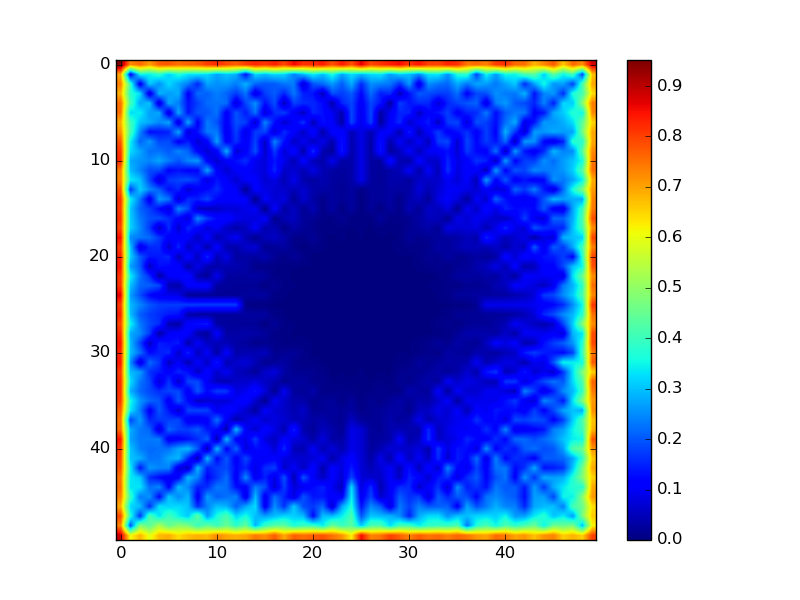
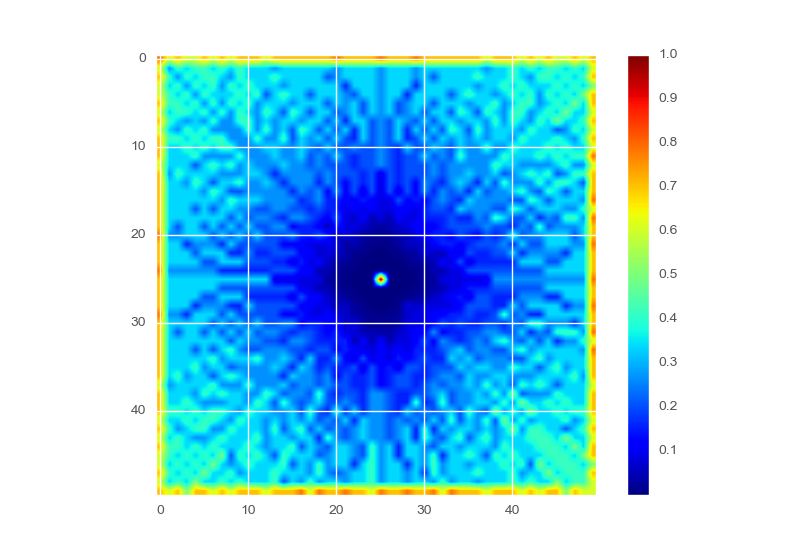
Imrpovements

diff --git a/Mapping/Simulate.py b/Mapping/Simulate.py
@@ -39,20 +39,16 @@ parser.add_argument("-d","--dimensions",
         This should be the x y size of the map.
     ex: "10 10"
     """,
-    required=True,
     type=int
 )
-
 parser.add_argument("-p","--position",
     nargs=2,
-    required=True,
     help="""\
         This should be the starting x y coordinates of
     the LiDAR separated with a space. ex: "5 5"
     """,
     type=int
 )
-
 parser.add_argument("-n", "--noise",
     help="""\
         Add this option if you wish to add noise to the
@@ -67,72 +63,118 @@ parser.add_argument("-s", "--save",
     """,
     action="store_true"
 )
-
 parser.add_argument("-ani", "--animate",
     help="""\
         Add this option if you wish to display the mapping in an animated mode
     """,
     action="store_true"
 )
+parser.add_argument("-g", "--graphs",
+    help="""\
+        Add this option if you want to display the finished graphs and the loss evolution
+    """,
+    action="store_true"
+)
+parser.add_argument("-stats", "--stats",
+    help="""\
+        Add this option if you want to save a txt file with all the parameters
+    """,
+    action="store_true"
+)
+
 args = parser.parse_args()
 dim = tuple(args.dimensions)
 pos = tuple(args.position)
 isNoisy = args.noise
 changeEx = args.save
 animate = args.animate
+graphs = args.graphs
+stats = args.stats
 
 np.set_printoptions(precision=3)
 np.set_printoptions(suppress=True)
 plt.style.use('classic')
 
-
 norm_scale = 0.01 #Map Scaling variable
-plot_scale = 255 #Animation scaling
 FPT = 1 #How many times the map will be update before plotted
+logloss = []
+tours_count=0
+
 #Initialize and get base info from LiSim
-lidar = sim.Lidar(dim=dim,pos=pos)
+try:
+    lidar = sim.Lidar(dim=dim,pos=pos)
+except:
+    lidar = sim.Lidar()
 true_carte = lidar.carte
 carte = lidar.initialCarte
+
 
 # Setup save file paths for the simulation
 if changeEx:
     path = "Examples/dim="+str(dim)+"_pos=" +  str(pos)
     plot.setuprootPath(path)
 else:
+    path = "Examples/default"
     plot.setuprootPath()
 
-i=0
-start = time.time()
+
+start = time.time() #start the clock
 while True:
-    
-    
     #Generate the data points where the measurements must be made
     measure_points =np.array(gen.measure_turn(pos, 1))
-
-    # Simulate measurement and feed them into LiMap
+    # Simulate measurement
     simMeasure = lidar.simulate(points=measure_points,show=False,noise=isNoisy)
+    #Update carte
     carte = map.processLidarData(simMeasure, carte, pos, dim)
     if animate:
-        if i%FPT==0:
-            frame = plot_scale*expit(norm_scale*carte)
-            plot.animate(frame,pos)
-            if cv2.waitKey(1) & 0xFF == ord('q'):
-                break
-            
-        i+=1
-    
+        #Convert carte in 0-1 format
+        scaled_carte = expit(carte*norm_scale)
+        #Animate
+        plot.animate(scaled_carte,pos,"Produced Carte")
+        if cv2.waitKey(1) & 0xFF == ord('q'):
+            break
+        #Generate confusion matrix and logloss
+        confusion = prc.genConfusionMatrix(scaled_carte, true_carte)
+        logloss.append(prc.loss(confusion,dim))
+        tours_count+=1
     else:
+        graphs=True
         break
-elapsed_time = time.time()-start
-print(i/elapsed_time)
+
 cv2.destroyAllWindows()
-#Process the data
-scaled_carte = expit(carte*norm_scale)
-confusion = prc.genConfusionMatrix(scaled_carte, true_carte)
+animation_time = time.time()-start # Measure running time
+
+print("FPS:", tours_count/animation_time)
+print("Nombre de tours:",tours_count)
 
 #Plot the data
-plot.plotData(confusion, "Confusion-Matrix")
-plot.plotData(true_carte, "Real-Map")
-plot.plotData(scaled_carte, "Produced-Map")
+if graphs == True:
+    scaled_carte = expit(carte*norm_scale)
+    confusion = prc.genConfusionMatrix(scaled_carte, true_carte)
+    plot.plot_loss(logloss,tours_count)
+    plot.plotData(confusion,"Confusion-Matrix",pos)
+    plot.plotData(true_carte,"Real-Map",pos)
+    plot.plotData(scaled_carte,"Produced-Map",pos)
+    plt.show()
 
-plt.show()
+if stats == True:
+    stats_for_nerds = {
+    "Dimensions" : dim,
+    "Position" : pos,
+    "Noise" : isNoisy,
+    "uPos": lidar.uPos,
+    "uDist": lidar.uDist,
+    "uTheta": lidar.uTheta,
+    "Angle_step": lidar.angle_step,
+    "Ray_step": lidar.ray_step ,
+    "Norm Scale": norm_scale,
+    "FPT": FPT,
+    "Last logloss": logloss[-1],
+    "Tours Count": tours_count,
+    "FPS" :tours_count/animation_time,
+    "Animation Runtime(s)": animation_time
+    }
+
+    f = open(path+"/stats for nerds.txt","w")
+    f.write(str(stats_for_nerds) )
+    f.close()

diff --git a/Mapping/LiMap/user_utils/plot.py b/Mapping/LiMap/user_utils/plot.py
@@ -2,11 +2,13 @@ import numpy as np
 import matplotlib.pyplot as plt
 import os, sys, errno
 import cv2
+import seaborn as sns
+import pandas as pd
+
 np.set_printoptions(precision=3)
 np.set_printoptions(suppress=True)
-plt.style.use('classic')
-import cv2
-from cv2 import VideoWriter, VideoWriter_fourcc
+
+
 plt.show(block=True)
 _basePath = "Examples/default"
 
@@ -29,12 +31,14 @@ def setupPath(path="Examples/default"):
         pass
 
 # TODO: Slugification
-def plotData(data, name, show=False, printa=False, save=True,path=""):
+def plotData(data, name,pos, show=False, printa=False, save=True,path=""):
+    plt.style.use('ggplot')
     if path=="":
         path = _basePath
     if printa==True:
         print(name+" is:\n", data)
 
+    data[pos[0]][pos[1]] = 1
     graph = plt.figure(name)
     plt.imshow(data,cmap='jet')
     plt.colorbar()
@@ -46,7 +50,26 @@ def plotData(data, name, show=False, printa=False, save=True,path=""):
 
     return graph
 
-def animate(image,center_coordinates):
+def plot_loss(loss,i, show=False, printa=False, save=True, path=""):
+    plt.style.use('seaborn')
+    if path=="":
+        path = _basePath
+    if printa==True:
+        print(name+" is:\n", data)
+
+    graph = plt.figure("Loss")
+    x = np.arange(0,i,1)
+    plt.plot(x,loss)
+    plt.xlabel("Nombre de Tours")
+    plt.ylabel("LoggLoss")
+    if save==True:
+        graph.savefig(path+"/"+"loss"+".png")
+    if show==True:
+        plt.show()
+
+    return graph
+
+def animate(image,center_coordinates,name):
     radius = 20
     color = (255, 255, 255)
     thickness = 1
@@ -55,9 +78,5 @@ def animate(image,center_coordinates):
     #cv2.adaptiveThreshold(image, 255,cv2.ADAPTIVE_THRESH_MEAN_C,cv2.THRESH_BINARY,2,0)
     image = cv2.circle(image, center_coordinates, 1, color, thickness)
     image = cv2.resize(image,(500,500))
-    
-    
-    cv2.imshow("produced_carte", image)
-    
+    cv2.imshow(name, image)
     cv2.waitKey(20)
-   

diff --git a/Mapping/LiSim/sim.py b/Mapping/LiSim/sim.py
@@ -8,23 +8,25 @@ plt.style.use('classic')
 class Lidar:
     '''Class that defines the Lidar object and comes with the simulation properties needed'''
 
-    def __init__(self,dim=(15,15),angle_step=1, ray_step=1,pos=(10,10)):
+    def __init__(self,dim=(15,15),angle_step=1, ray_step=1,pos=(10,10),uPos=2,uDist=2,uTheta=1.25):
         self.dim = dim
         self.angle_step = angle_step
         self.ray_step = ray_step
         self.carte = np.zeros(dim)
         self.pos = pos
-        self.carte[self.pos[0]][self.pos[1]] = 0.5
+        self.uPos = uPos
+        self.uDist = uDist
+        self.uTheta = uTheta
 
         #Map Boundaries and obstacle settings
         self.carte[0][:] = 1
         self.carte[:,0] = 1
         self.carte[dim[1]-1][:] = 1
         self.carte[:,dim[1]-1] = 1
-        
+
         #Create the reference initial working map for LiMap
         self.initialCarte = np.zeros(dim)
-        self.initialCarte[pos[0]][pos[1]] = 1000
+
 
 
     def _noise(self, clean_data, dev, esp=0):
@@ -33,7 +35,7 @@ class Lidar:
         noise = np.random.normal(esp,dev,clean_data.shape)
         return noise+clean_data
 
-    def simulate(self, points, noise=True, show=False, uPos=2, uDist=2, uTheta=1.25):
+    def simulate(self, points, noise=True, show=False):
         '''Simulates data from one complete lidar rotation, the points parameter is
         a list representing a discretized version of the path and the laser orientation
         of the LiDAR over time '''
@@ -55,8 +57,8 @@ class Lidar:
         simulated = np.array(simulated)
         if noise == True:
             #Add noise to the data
-            simulated[:,0] = self._noise(simulated[:,0], uDist)
-            simulated[:,1] = self._noise(simulated[:,1], uTheta)
+            simulated[:,0] = self._noise(simulated[:,0], self.uDist)
+            simulated[:,1] = self._noise(simulated[:,1], self.uTheta)
 
 
         return simulated

diff --git a/Mapping/LiSim/simResultProcess.py b/Mapping/LiSim/simResultProcess.py
@@ -1,4 +1,8 @@
 import numpy as np
+from sklearn.metrics import log_loss
 
 def genConfusionMatrix(obs, true):
-    return np.square(obs-true)
+    return 4*np.square(obs-true)
+
+def loss(conf,dim):
+    return (np.sum(conf)/(dim[0]*dim[1]))
